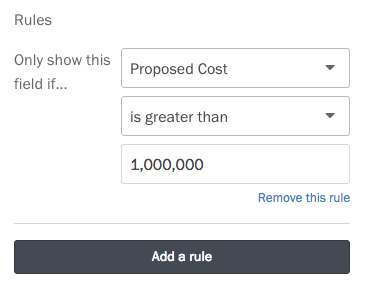
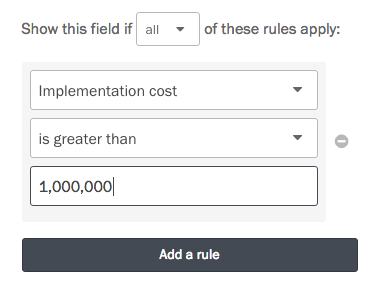
update screenshot for conditional fields, fix text

diff --git a/contents/articles/screendoor/your_form/building_your_form.md b/contents/articles/screendoor/your_form/building_your_form.md
@@ -63,13 +63,13 @@ Selecting &ldquo;Hide this field&rdquo; will make the field invisible to the pub
 
 Rules allow you to add powerful logic to your form, by conditionally showing and hiding fields depending on the respondent's previous answers.
 
-For example, if some questions in your form should be skipped unless the respondent lives in a certain city, you could hide those fields until the respondent indicates their location. Let's walk through that example below.
+For example, if some questions in your form should be skipped unless the implementation cost is over $1 million, you could hide those fields until the respondent indicates their implementation cost. Let's walk through that example below.
 
 To start adding rules, select the field you wish to hide, and press the &ldquo;Add a rule&rdquo; button in the left pane.
 
 ![Adding a rule to a field.](../images/formbuilder_9.png)
 
-Under &ldquo;Only show this field if&hellip;&rdquo; select the appropriate options. In this example, we want to show this question only if they live in the right city.
+Under &ldquo;Only show this field if&hellip;&rdquo; select the appropriate options. In this example, we want to show this question only if the cost is more than $1 million.
 
 ![Setting conditions for a rule.](../images/formbuilder_10.png)
 
